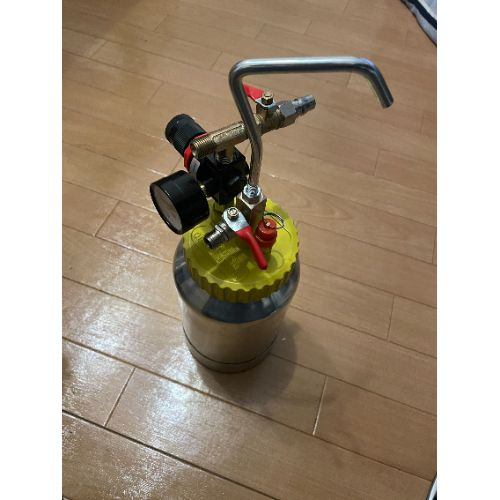
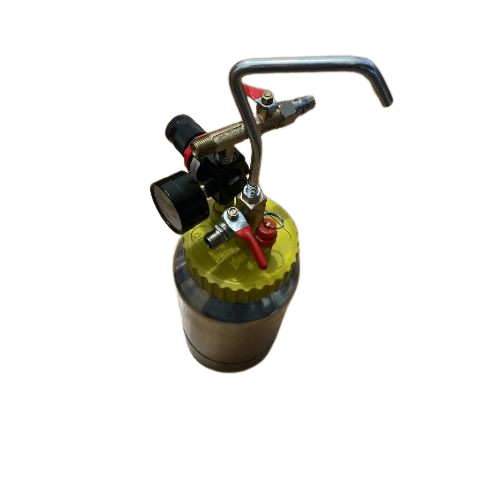
update

diff --git a/README.md b/README.md
@@ -25,3 +25,7 @@ https://hoshina-robotics.com/automation-database/
 ## 規格に関して
 
 - [管用ねじの種類とインチ呼びについて](https://www.monotaro.com/note/productinfo/kanyoneji/)
+
+## 背景削除
+
+https://www.remove.bg/ja/upload
